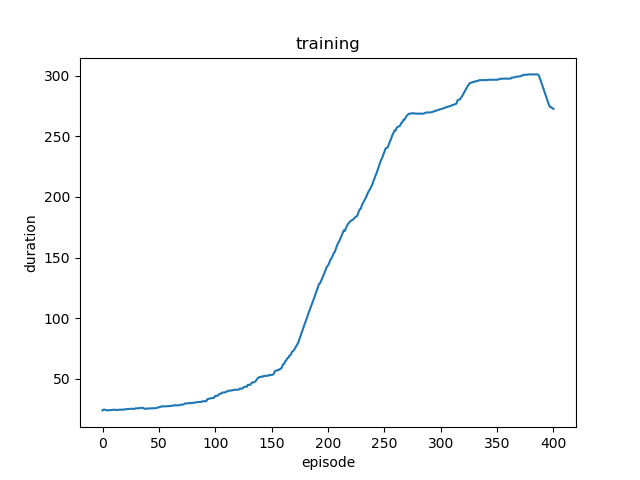
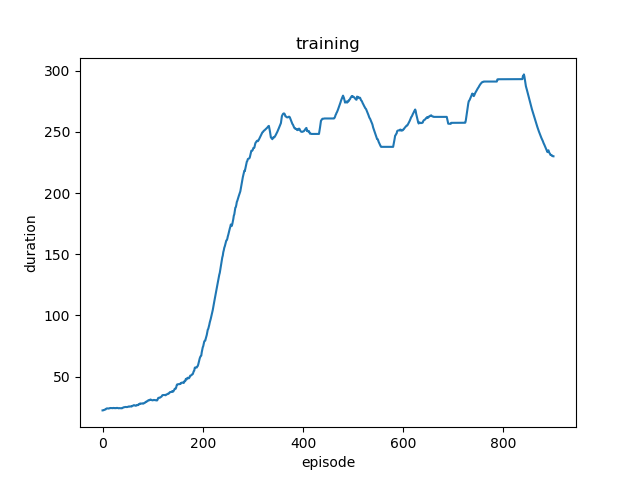
action select from q-net

diff --git a/config.py b/config.py
@@ -11,7 +11,7 @@ class Config(object):
         self.EPS_END = 0.1 # final exploration
         self.EPS_DECAY = 200 # decay
         self.TARGET_UPDATE = 100 # target network update freq
-        self.num_episodes = 500
+        self.num_episodes = 1000
         self.LR = 0.001 # adam lr
         self.initial_exploration = 1000
         self.env = gym.make('CartPole-v0').unwrapped

diff --git a/agent.py b/agent.py
@@ -20,7 +20,7 @@ class DQNAgent(object):
     def __select_action(self):
         p = random.random()
         if p > self.eps:
-            return self.target_net(self.state).max(1)[1].numpy()[0]
+            return self.q_net(self.state).max(1)[1].numpy()[0]
         else:
             return self.env.action_space.sample()
 

diff --git a/train.py b/train.py
@@ -5,7 +5,7 @@ from agent import DQNAgent, DoubleDQNAgent
 def main():
     args = Config()
     torch.manual_seed(args.seed)
-    agent = DQNAgent(args)
+    agent = DoubleDQNAgent(args)
     # training
     agent.train()
     print('complete!')
